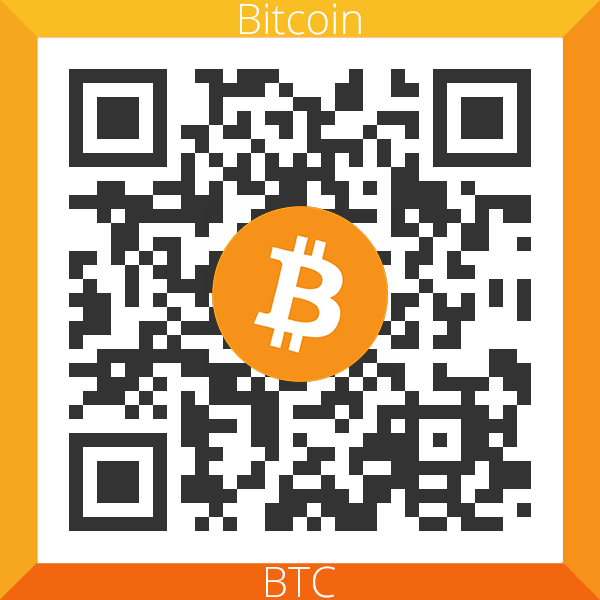
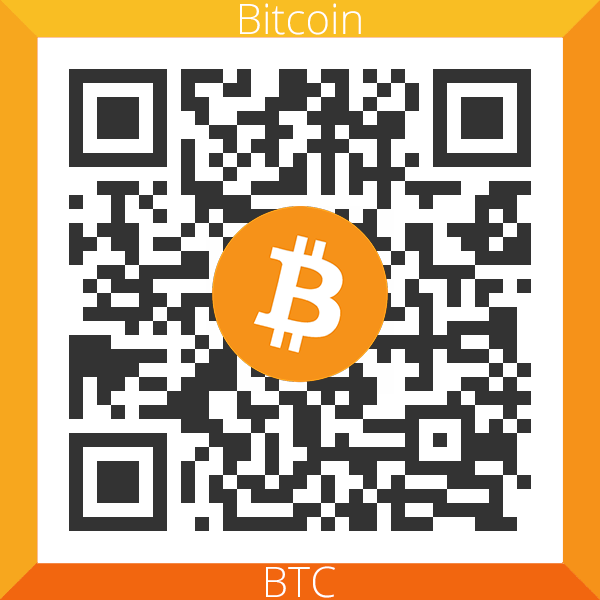
Add legacy Bitcoin address and fix SeGwit QR code

Changed region(s): [[0.09, 0.09, 0.9, 0.9], [0.51, 0.27, 0.54, 0.3]]

diff --git a/flaskApp/templates/pages/donate.html b/flaskApp/templates/pages/donate.html
@@ -36,9 +36,10 @@
   <textarea class="textarea" readonly onclick="this.select()">-----BEGIN PGP SIGNED MESSAGE-----
 Hash: SHA512
 
-Bitcoin: bc1qt9d49p3gz5yfwtyte3v8kr49upllk3t233vs7w
-Ethereum: 0xdf2Cd69FB4DdF7a7A3f4a8FCADf4Df58948CD691
+Bitcoin: 16iT3hdUnScaYqfqggqbLWQGx5VtRwTGxC
+Bitcoin (SegWit): bc1qt9d49p3gz5yfwtyte3v8kr49upllk3t233vs7w
 Monero: 429U6JMXkhs94HmBH8oiJxgTDRZCRtUfVaq2kAPUpmn9P6vC2M8vjiHRVjJsxcacXkhANBeDYognpT4FDq4tDThn682sdVQ
+Ethereum: 0xdf2Cd69FB4DdF7a7A3f4a8FCADf4Df58948CD691
 Litecoin: ltc1qzmf9e5snzd79yh4g6h6y4q39nxm4jl77uprp8h
 Nano: nano_1ojj6pahqweigt1614z9ax1zqc4doig8dbe9tcqq9tqhtgtxsmwfyc3okpe1
 
@@ -46,18 +47,18 @@ PayPal e-mail: frederikstroem@pm.me
 
 -----BEGIN PGP SIGNATURE-----
 
[11 lines of base64/hex data omitted]
-J0aHPNy9hbL0SFlY2388PtmpD6pmq5Nipis/zGXXP81S1Pbu0Ng=
-=+Qov
[11 lines of base64/hex data omitted]
+D+/Re2tUXobeXwKgyGUrnnikDhTvCew2iu7qxiFPuVDQN+nFnpc=
+=7dMc
 -----END PGP SIGNATURE-----</textarea>
 {% endblock %}
